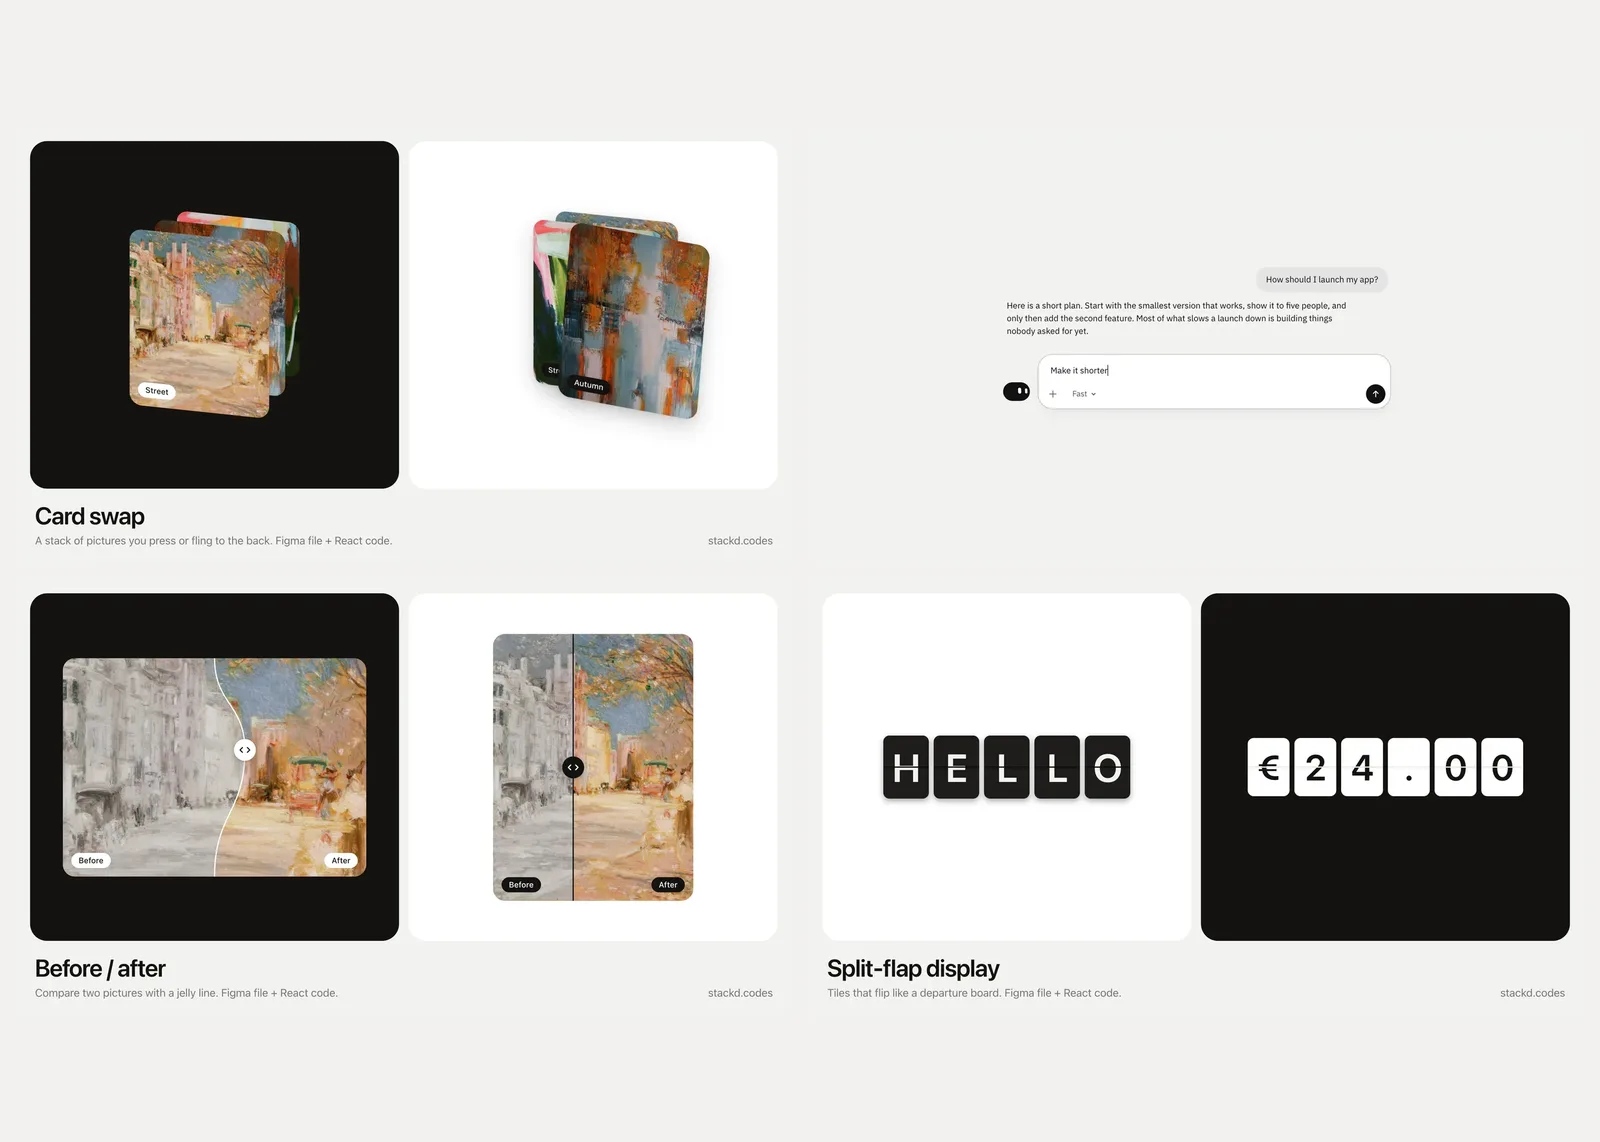
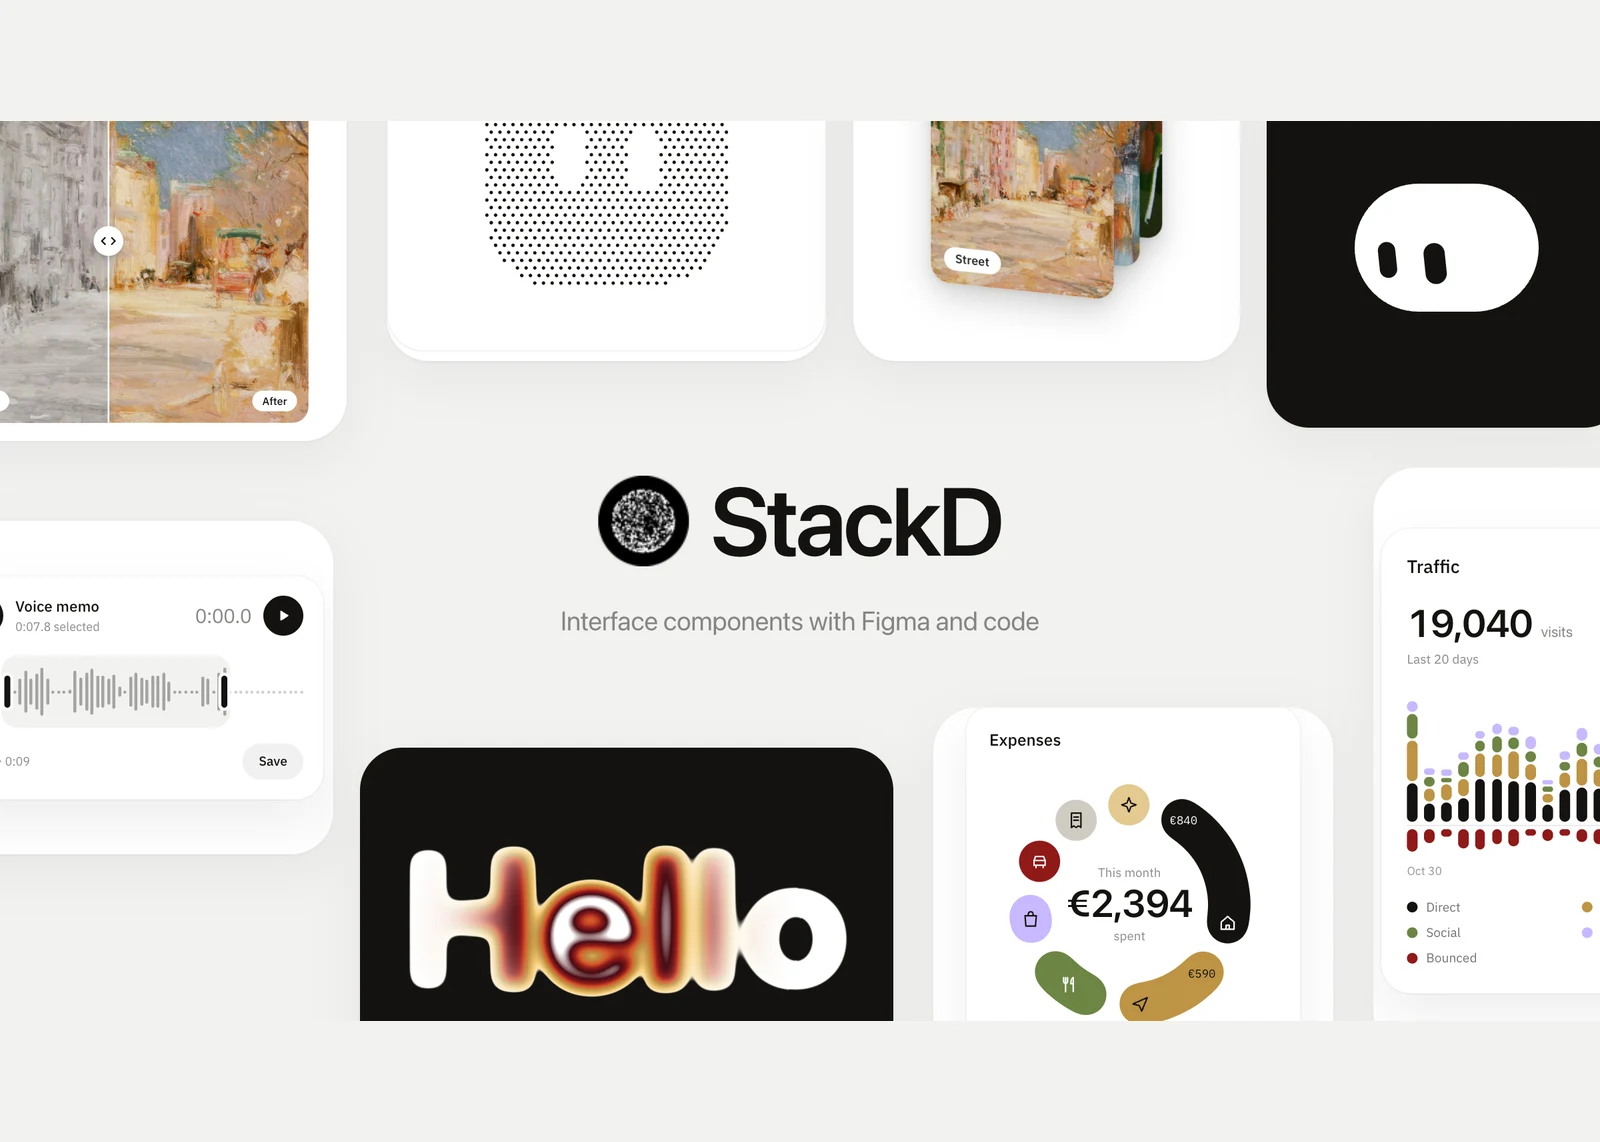
Use the StackD launch image in the portfolio

diff --git a/components/copy.ts b/components/copy.ts
@@ -125,10 +125,10 @@ export const CASES: CaseStudy[] = [
     status: { text: 'Live · stackd.codes', tone: 'ok' },
     tag: 'Founder · Design Engineer',
     image: {
-      src: '/design/stackd-board.webp',
-      w: 2472,
-      h: 1422,
-      alt: 'StackD components: card swap, prompt bar, before / after slider and split-flap display',
+      src: '/design/stackd-launch.webp',
+      w: 2400,
+      h: 1350,
+      alt: 'The StackD logo surrounded by its components: Bot, voice memo, heat word, dot morph, card swap, before / after, spending ring and stacked bars',
       size: 'large',
     },
     blurb:
